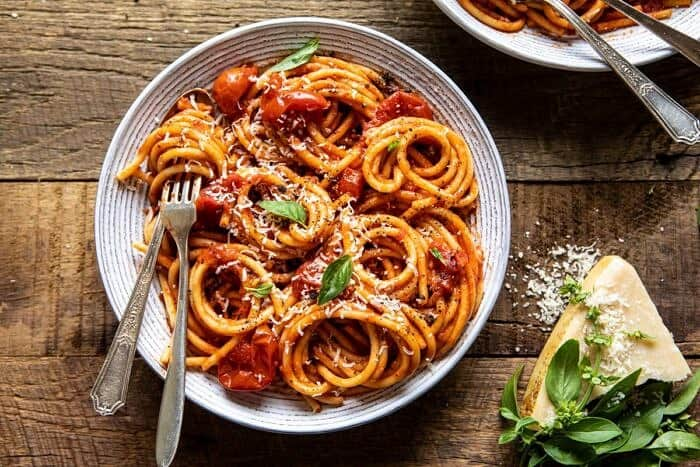
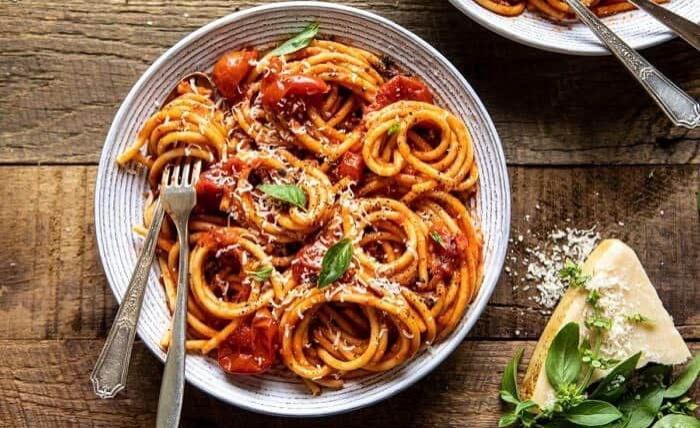
pasta website

diff --git a/index.html b/index.html
@@ -9,31 +9,42 @@
 </head>
 
 <body>
-    <header>
-        <nav class="navbar">
+    <header class="header-grid-layout">
+
+        <nav class="navbar"`>
             <a href="#">Home</a>
             <a href="#">Recipes</a>
             <a href="#">About me</a>
         </nav>
 
+        <div class="header-image">
+            <div class="stripe-flex-layout">
+                <div class="stripe1"></div>
+                <div class="stripe1"></div>
+                <div class="stripe2"></div>
+                <div class="stripe2"></div>
+                <div class="stripe3"></div>
+            </div>
+        </div>
         
-        <h1>Pasta!</h1>
-        <h4>Scroll down to learn all about different pastas.</h4>
-        <h4>Make sure to take notes!</h4>
+        <div id="header-text">
+            <h1>Pasta!</h1>
+            <h4>Scroll down to learn all about different pastas.</h4>
+            <h4>Make sure to take notes!</h4>
+        </div>
+
     </header>
 
     <main>
-        <section>
             <div class="grid-image-layout">
                 <div>
                     <img id="image1" src="images/pastaHorizon.jpg" alt="pasta1">
                     <img id="image2" src="images/pastaHorizon2.jpg" alt="pasta2">
                 </div>
                 <div>
-                    <img id="image3" src="images/pastaVertical.jpg" alt="pasta3">
+                    <img id="image3" src="images/Picture1.jpg" alt="pasta3">
                 </div>
             </div>
-        </section>
 
             <h3>Different Types of Pastas</h3>
             <h4>Penne, Farfalle, Rigatoni, Cavatappi</h4>
@@ -41,6 +52,10 @@
             <p><em>Farfalle: </em>Use farfalle pasta to dress up any dish that calls for small pasta shapes, such as penne or shells. Also known as bow-tie pasta.</p>
             <p><em>Rigatoni: </em>Short, grooved, tube-shaped "riggies" can be used in pretty much any setting, from sauces to salads to baked casseroles.</p>
             <p><em>Linguini:</em>These long, flat noodles are slightly thicker than spaghetti. The classic Italian restaurant pairing is clam sauce, but you can use this pasta in any dish that calls for spaghetti.</p>
+
+            <h3>Learn More About Pasta</h3>
+            <h4>Pasta, Pasta, Pasta!</h4>
+            <p>Click on the links in the header to learn more about pasta!</p>
     </main>
 
     <footer>

diff --git a/css/styles.css b/css/styles.css
@@ -3,11 +3,82 @@ header {
     color: whitesmoke;
     padding: 20px;
     border-radius: 20px;
+    margin-bottom: 15px;
     
 }
+
+.header-grid-layout {
+    display: grid;
+    grid-template-columns: 1fr 1fr;
+    grid-template-rows: 1fr 1fr auto auto auto;
+}
+
 .navbar {
     text-align: right;
-    font-size: 15;
+    font-size: 20px;
+    margin-bottom: 20px;
+
+    grid-row-start: 1;
+    grid-column-start: 4;
+
+    grid-row-end: 2;
+    grid-column-end: 6;
+}
+
+.header-image {
+    background-image: url(../images/puttanesca.png);
+    background-attachment: scroll;
+    object-fit: cover;
+    position: relative;
+    width: 100%;
+    height: 100%;
+
+    grid-row-start: 2;
+    grid-column-start: 2;
+    grid-row-end: 3;
+    grid-column-end: 6;
+}
+
+.stripe-flex-layout {
+    display: flex;
+    width: 100%;
+    height: 100%;
+}
+
+.stripe1 {
+    flex: 20px;
+    margin-left: 100px;
+    background-color: #2F3C7E;
+}
+
+.stripe2 {
+    flex: 20px;
+    display: flex;
+    margin-left: 175px;
+    background-color: #2F3C7E;
+}
+
+.stripe3 {
+    flex: 20px;
+    display: flex;
+    margin-left: 225px;
+    background-color: #2F3C7E;
+}
+#header-text {
+    grid-row-start: 3;
+    grid-column-start: 1;
+
+    grid-row-end: 4;
+    grid-column-end: 6;
+}
+
+#header-text h1 {
+    font-size: 50px;
+}
+
+#header-text h4 {
+    font-size: 18px;
+    font-weight: normal;
 }
 
 .navbar a {
@@ -19,23 +90,29 @@ header {
     color: rgb(214, 155, 193)
 }
 
+.right-align {
+    text-align: right;
+}
+
 body {
     background-color: #FBEAEB;
 }
 
-img {
+.grid-image-layout img {
     max-width: 100%;
-    height: auto;
+    /* height: auto; */
     border-radius: 20px;
-    margin-top: 20px;
-    margin-bottom: 20px;
 }
 
 .grid-image-layout {
     display: grid;
-    grid-template-rows: 1fr 1fr 1fr;
-    grid-template-columns: 1fr 1fr ;
-    gap: 10px;
+    grid-template-rows: 1fr;
+    grid-template-columns: 1fr 1fr;
+    gap: 5px;
+}
+
+.grid-image-layout > div:nth-child(2) {
+    align-self: baseline;
 }
 
 #image1 {
